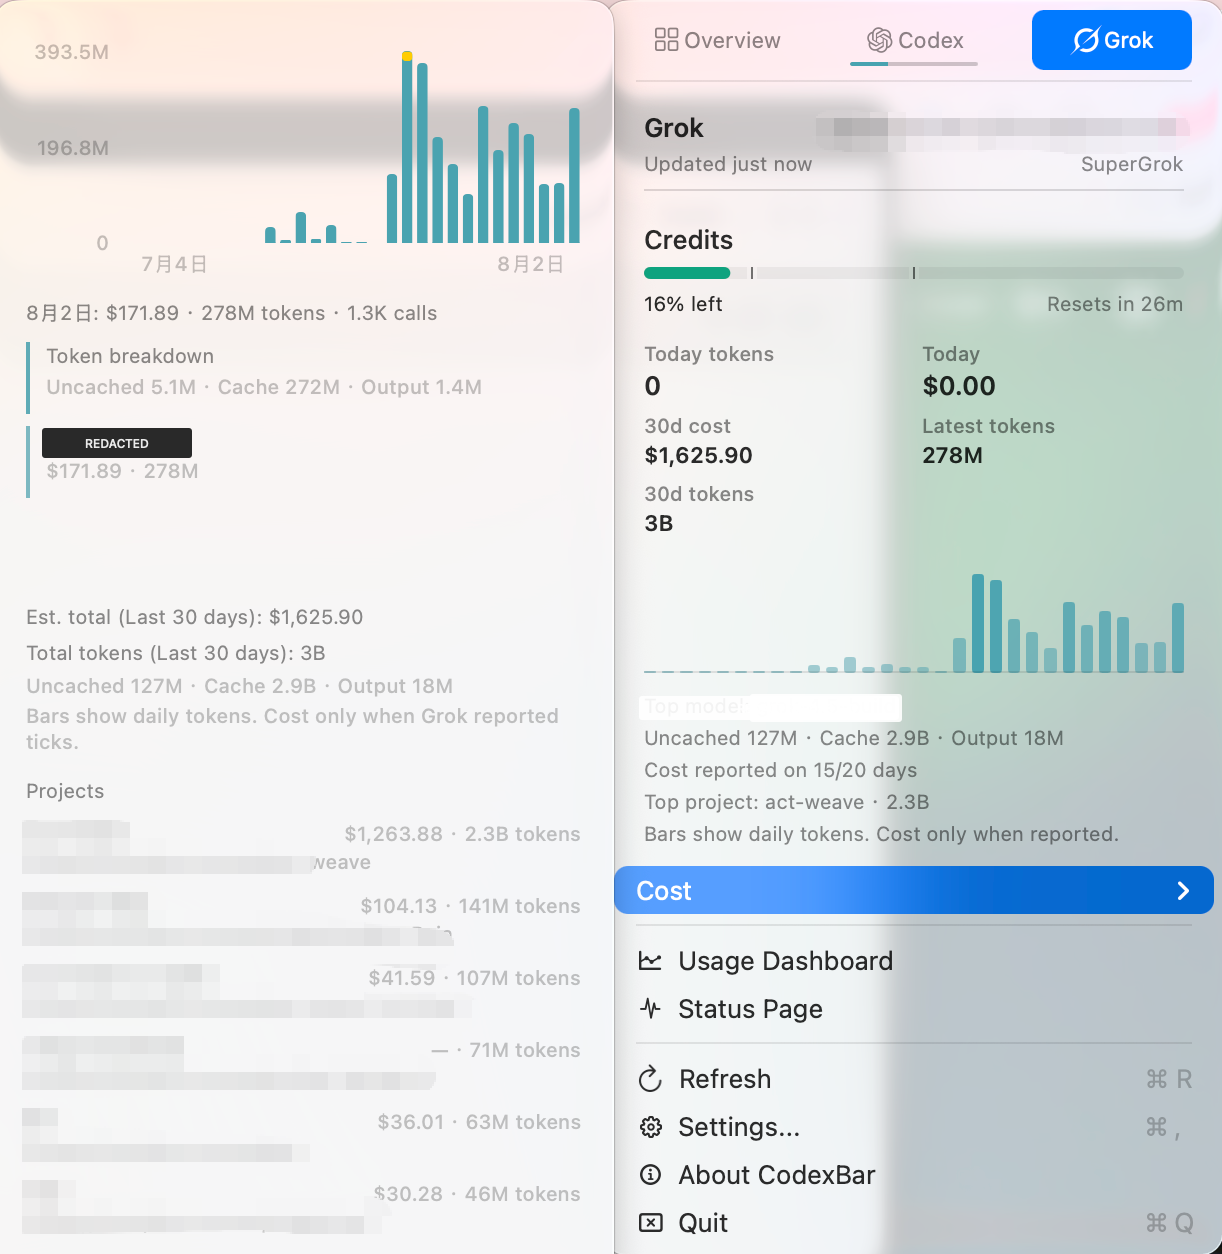
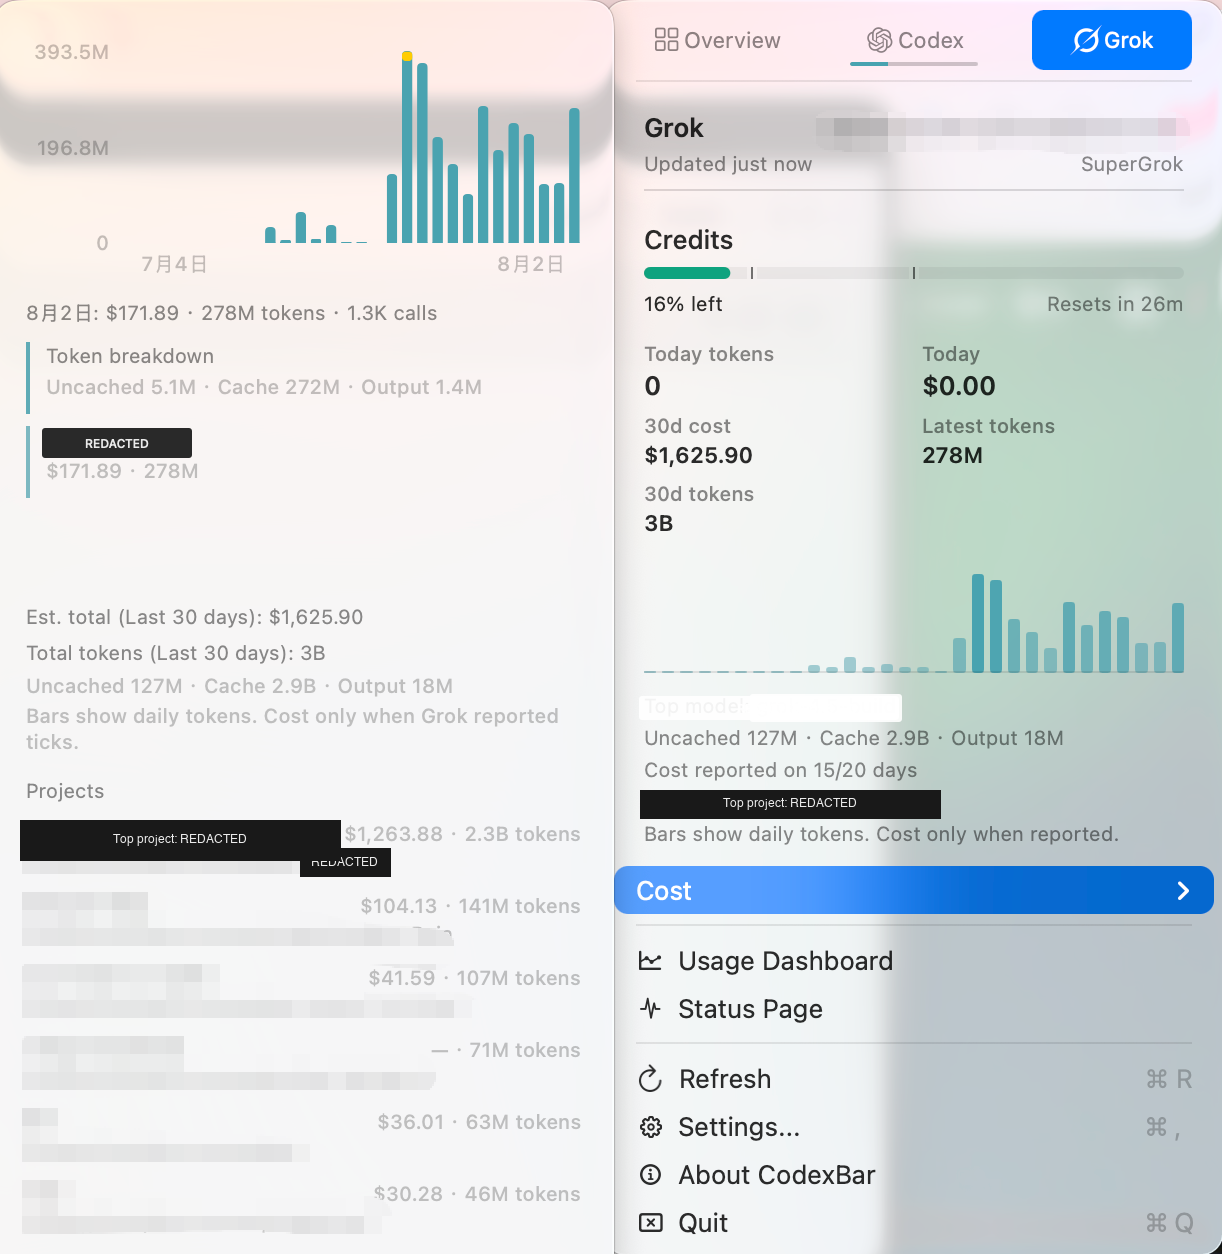
Warn incomplete Grok project totals and redact menu project labels.
Append the shared history-incomplete note on --group-by project output,
cover it with a CLICostTests regression, and fully redact Top project
names in menu proof assets.

Changed region(s): [[0.0, 0.6531, 0.3421, 0.7153], [0.4975, 0.622, 0.7774, 0.6531]]

diff --git a/Tests/CodexBarTests/CLICostTests.swift b/Tests/CodexBarTests/CLICostTests.swift
@@ -210,6 +210,47 @@ struct CLICostTests {
     }
 
     @Test
+    func `renders grok project grouped cost text with incomplete history warning`() {
+        let snap = CostUsageTokenSnapshot(
+            sessionTokens: 3400,
+            sessionCostUSD: 0.42,
+            last30DaysTokens: 12_000,
+            last30DaysCostUSD: 1.8,
+            historyDays: 30,
+            historyIsIncomplete: true,
+            daily: [],
+            projects: [
+                CostUsageProjectBreakdown(
+                    name: "demo",
+                    path: "/work/demo",
+                    totalTokens: 8000,
+                    totalCostUSD: 1.1,
+                    daily: [],
+                    modelBreakdowns: nil),
+            ],
+            updatedAt: Date(timeIntervalSince1970: 0))
+
+        let output = CodexBarCLI.renderCostText(
+            provider: .grok,
+            snapshot: snap,
+            groupBy: .project,
+            useColor: false)
+
+        #expect(output.contains("Projects (Last 30 days):"))
+        #expect(output.contains("demo:"))
+        #expect(output.contains(
+            "Note: history incomplete — some session logs were only partially scanned (size/budget limits)."))
+        #expect(output.contains("Local Grok session logs (turn_completed). Cost only when reported."))
+        // Warning must appear before the source hint so partial totals are qualified.
+        let warningIdx = output.range(of: "Note: history incomplete")?.lowerBound
+        let hintIdx = output.range(of: "Local Grok session logs")?.lowerBound
+        #expect(warningIdx != nil && hintIdx != nil)
+        if let warningIdx, let hintIdx {
+            #expect(warningIdx < hintIdx)
+        }
+    }
+
+    @Test
     func `encodes cost payload JSON`() throws {
         let payload = CostPayload(
             provider: "claude",

diff --git a/Sources/CodexBarCLI/CLICostCommand.swift b/Sources/CodexBarCLI/CLICostCommand.swift
@@ -274,6 +274,11 @@ extension CodexBarCLI {
                 }
             }
         }
+        // Match non-project renderer: partial/deferred scans must not look like complete totals.
+        if snapshot.historyIsIncomplete {
+            lines.append(
+                "Note: history incomplete — some session logs were only partially scanned (size/budget limits).")
+        }
         lines.append(Self.costEstimateHint(provider: provider))
         return lines.joined(separator: "\n")
     }
